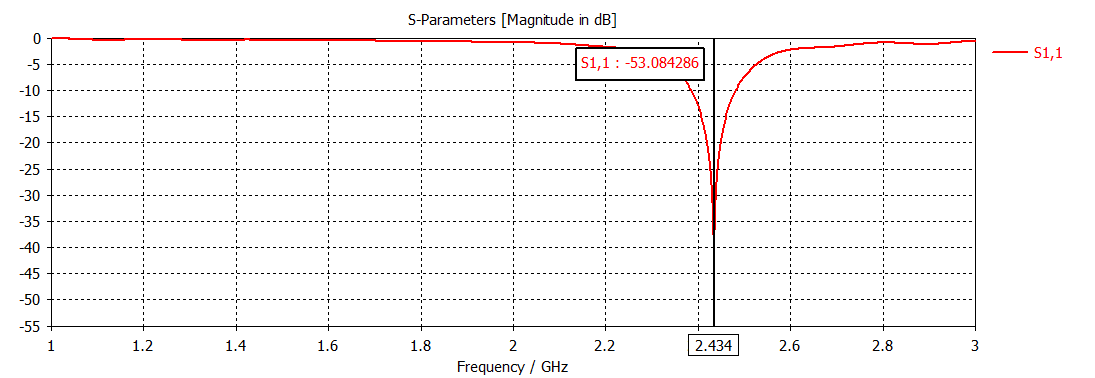
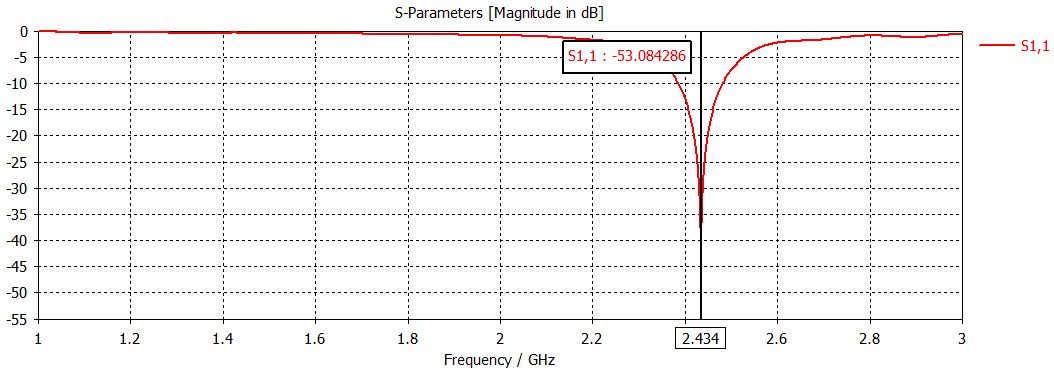
updated images

diff --git a/tools/antenna/plots.py b/tools/antenna/plots.py
@@ -31,7 +31,7 @@ def overview(out_dir: str, ds: Optional[Dataset] = None) -> List[str]:
     # 1. Simulated vs measured return loss.
     sim = [g.simulation.s11_db for g in ds.geometries]
     meas = [g.measurement.s11_db if g.measurement else float("nan") for g in ds.geometries]
-    fig, ax = plt.subplots(figsize=(10, 3.45))
+    fig, ax = plt.subplots(figsize=(10, 3.52))
     ax.bar([i - 0.2 for i in x], sim, width=0.4, label="Simulation", color="#3b6ea5")
     ax.bar([i + 0.2 for i in x], meas, width=0.4, label="Measurement", color="#c1666b")
     ax.axhline(-10, ls="--", lw=1, color="#555", label="−10 dB threshold")